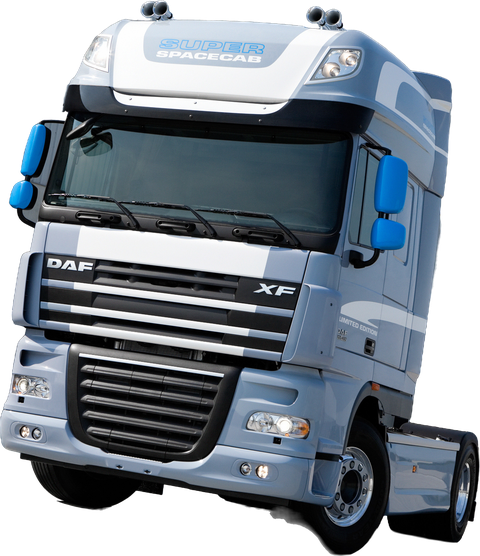
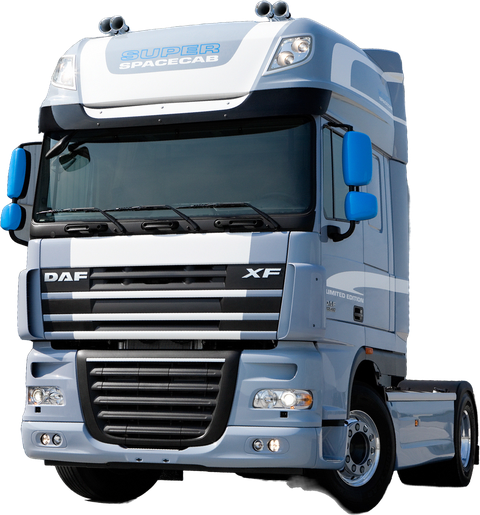
Kamióny: všetky dlaždice kategórie s ťahačom predkom doľava (MAN TGX 1. gen., Volvo FH13, DAF podľa generácií)
- MAN TGX 2007–2020: oficiálna fotka MAN 688407 bez loga DSV; Volvo FH13: oficiálna fotka bez návesu; DAF XF106 2017–2021 nový render DAF 2017, XF106 2013–2016 vlastný kľúč, XF105 narovnaný; staršia Scania R bez polepu.
- stranky.json (20 stránok s ťahačom), kategória SK aj CZ prebudovaná; build-kamiony-stranky.mjs --check OK.

diff --git a/admin-html/kamiony/kategoria-autokoberce-do-kamionu.sk.html b/admin-html/kamiony/kategoria-autokoberce-do-kamionu.sk.html
@@ -31,14 +31,14 @@
 <nav class="lcd-kam-zoznam__znacky" aria-label="Značky kamiónov"><a href="#kamiony-daf">DAF</a><a href="#kamiony-man">MAN</a><a href="#kamiony-mercedes-benz">Mercedes-Benz</a><a href="#kamiony-renault">Renault</a><a href="#kamiony-scania">Scania</a><a href="#kamiony-volvo">Volvo</a></nav>
 <div class="lcd-kam-zoznam__znacka" id="kamiony-daf"><h2>DAF</h2>
 <ul class="lcd-kam-zoznam__modely">
-<li><a class="lcd-kam-zoznam__k" href="/autokoberce-do-kamionu-daf-xf106/"><span class="lcd-kam-zoznam__foto"><picture><source type="image/webp" srcset="https://cdn.myshoptet.com/usr/shoptet.jankucera.work/user/documents/eshopy/luxuryCar/assets/img/1v/kamion-stranky/tahace/daf-xf106-vlavo-480.webp 480w, https://cdn.myshoptet.com/usr/shoptet.jankucera.work/user/documents/eshopy/luxuryCar/assets/img/1v/kamion-stranky/tahace/daf-xf106-vlavo-960.webp 960w" sizes="(min-width: 1000px) 230px, (min-width: 640px) 30vw, 45vw"><img src="https://cdn.myshoptet.com/usr/shoptet.jankucera.work/user/documents/eshopy/luxuryCar/assets/img/1v/kamion-stranky/tahace/daf-xf106-vlavo-480.png" alt="" width="480" height="555" loading="lazy" decoding="async"></picture></span><b>DAF XF106</b> <span class="lcd-kam-zoznam__roky">(2017–2021)</span></a></li>
-<li><a class="lcd-kam-zoznam__k" href="/autokoberce-do-kamionu-daf-xf106-2013/"><span class="lcd-kam-zoznam__foto"><picture><source type="image/webp" srcset="https://cdn.myshoptet.com/usr/shoptet.jankucera.work/user/documents/eshopy/luxuryCar/assets/img/1v/kamion-stranky/tahace/daf-xf106-vlavo-480.webp 480w, https://cdn.myshoptet.com/usr/shoptet.jankucera.work/user/documents/eshopy/luxuryCar/assets/img/1v/kamion-stranky/tahace/daf-xf106-vlavo-960.webp 960w" sizes="(min-width: 1000px) 230px, (min-width: 640px) 30vw, 45vw"><img src="https://cdn.myshoptet.com/usr/shoptet.jankucera.work/user/documents/eshopy/luxuryCar/assets/img/1v/kamion-stranky/tahace/daf-xf106-vlavo-480.png" alt="" width="480" height="555" loading="lazy" decoding="async"></picture></span><b>DAF XF106</b> <span class="lcd-kam-zoznam__roky">(2013–2016)</span></a></li>
-<li><a class="lcd-kam-zoznam__k" href="/autokoberce-do-kamionu-daf-xf105/"><span class="lcd-kam-zoznam__foto"><picture><source type="image/webp" srcset="https://cdn.myshoptet.com/usr/shoptet.jankucera.work/user/documents/eshopy/luxuryCar/assets/img/1v/kamion-stranky/tahace/daf-xf105-vlavo-480.webp 480w, https://cdn.myshoptet.com/usr/shoptet.jankucera.work/user/documents/eshopy/luxuryCar/assets/img/1v/kamion-stranky/tahace/daf-xf105-vlavo-960.webp 960w" sizes="(min-width: 1000px) 230px, (min-width: 640px) 30vw, 45vw"><img src="https://cdn.myshoptet.com/usr/shoptet.jankucera.work/user/documents/eshopy/luxuryCar/assets/img/1v/kamion-stranky/tahace/daf-xf105-vlavo-480.png" alt="" width="480" height="556" loading="lazy" decoding="async"></picture></span><b>DAF XF105</b> <span class="lcd-kam-zoznam__roky">(2006–2012)</span></a></li>
+<li><a class="lcd-kam-zoznam__k" href="/autokoberce-do-kamionu-daf-xf106/"><span class="lcd-kam-zoznam__foto"><picture><source type="image/webp" srcset="https://cdn.myshoptet.com/usr/shoptet.jankucera.work/user/documents/eshopy/luxuryCar/assets/img/1v/kamion-stranky/tahace/daf-xf106-vlavo-480.webp 480w, https://cdn.myshoptet.com/usr/shoptet.jankucera.work/user/documents/eshopy/luxuryCar/assets/img/1v/kamion-stranky/tahace/daf-xf106-vlavo-960.webp 960w" sizes="(min-width: 1000px) 230px, (min-width: 640px) 30vw, 45vw"><img src="https://cdn.myshoptet.com/usr/shoptet.jankucera.work/user/documents/eshopy/luxuryCar/assets/img/1v/kamion-stranky/tahace/daf-xf106-vlavo-480.png" alt="" width="480" height="412" loading="lazy" decoding="async"></picture></span><b>DAF XF106</b> <span class="lcd-kam-zoznam__roky">(2017–2021)</span></a></li>
+<li><a class="lcd-kam-zoznam__k" href="/autokoberce-do-kamionu-daf-xf106-2013/"><span class="lcd-kam-zoznam__foto"><picture><source type="image/webp" srcset="https://cdn.myshoptet.com/usr/shoptet.jankucera.work/user/documents/eshopy/luxuryCar/assets/img/1v/kamion-stranky/tahace/daf-xf106-2013-vlavo-480.webp 480w, https://cdn.myshoptet.com/usr/shoptet.jankucera.work/user/documents/eshopy/luxuryCar/assets/img/1v/kamion-stranky/tahace/daf-xf106-2013-vlavo-960.webp 960w" sizes="(min-width: 1000px) 230px, (min-width: 640px) 30vw, 45vw"><img src="https://cdn.myshoptet.com/usr/shoptet.jankucera.work/user/documents/eshopy/luxuryCar/assets/img/1v/kamion-stranky/tahace/daf-xf106-2013-vlavo-480.png" alt="" width="480" height="555" loading="lazy" decoding="async"></picture></span><b>DAF XF106</b> <span class="lcd-kam-zoznam__roky">(2013–2016)</span></a></li>
+<li><a class="lcd-kam-zoznam__k" href="/autokoberce-do-kamionu-daf-xf105/"><span class="lcd-kam-zoznam__foto"><picture><source type="image/webp" srcset="https://cdn.myshoptet.com/usr/shoptet.jankucera.work/user/documents/eshopy/luxuryCar/assets/img/1v/kamion-stranky/tahace/daf-xf105-vlavo-480.webp 480w, https://cdn.myshoptet.com/usr/shoptet.jankucera.work/user/documents/eshopy/luxuryCar/assets/img/1v/kamion-stranky/tahace/daf-xf105-vlavo-960.webp 960w" sizes="(min-width: 1000px) 230px, (min-width: 640px) 30vw, 45vw"><img src="https://cdn.myshoptet.com/usr/shoptet.jankucera.work/user/documents/eshopy/luxuryCar/assets/img/1v/kamion-stranky/tahace/daf-xf105-vlavo-480.png" alt="" width="480" height="515" loading="lazy" decoding="async"></picture></span><b>DAF XF105</b> <span class="lcd-kam-zoznam__roky">(2006–2012)</span></a></li>
 </ul></div>
 <div class="lcd-kam-zoznam__znacka" id="kamiony-man"><h2>MAN</h2>
 <ul class="lcd-kam-zoznam__modely">
 <li><a class="lcd-kam-zoznam__k" href="/autokoberce-do-kamionu-man-tgx/"><span class="lcd-kam-zoznam__foto"><picture><source type="image/webp" srcset="https://cdn.myshoptet.com/usr/shoptet.jankucera.work/user/documents/eshopy/luxuryCar/assets/img/1v/kamion-stranky/tahace/man-tgx-2021-vlavo-480.webp 480w, https://cdn.myshoptet.com/usr/shoptet.jankucera.work/user/documents/eshopy/luxuryCar/assets/img/1v/kamion-stranky/tahace/man-tgx-2021-vlavo-960.webp 960w" sizes="(min-width: 1000px) 230px, (min-width: 640px) 30vw, 45vw"><img src="https://cdn.myshoptet.com/usr/shoptet.jankucera.work/user/documents/eshopy/luxuryCar/assets/img/1v/kamion-stranky/tahace/man-tgx-2021-vlavo-480.png" alt="" width="480" height="440" loading="lazy" decoding="async"></picture></span><b>MAN TGX</b> <span class="lcd-kam-zoznam__roky">(2021–2026)</span></a></li>
-<li><a class="lcd-kam-zoznam__k" href="/autokoberce-do-kamionu-man-tgx-2007/"><span class="lcd-kam-zoznam__foto lcd-kam-zoznam__foto--bez"><svg viewBox="0 0 64 40" width="64" height="40" fill="none" stroke="currentColor" stroke-width="2.4" stroke-linejoin="round" aria-hidden="true"><path d="M6 6h22v24H6z"/><path d="M28 14h14l9 9v7H28z"/><path d="M33 17h7l6 6H33z"/><circle cx="15" cy="32" r="4" fill="#fff"/><circle cx="43" cy="32" r="4" fill="#fff"/></svg></span><b>MAN TGX</b> <span class="lcd-kam-zoznam__roky">(2007–2017)</span></a></li>
+<li><a class="lcd-kam-zoznam__k" href="/autokoberce-do-kamionu-man-tgx-2007/"><span class="lcd-kam-zoznam__foto"><picture><source type="image/webp" srcset="https://cdn.myshoptet.com/usr/shoptet.jankucera.work/user/documents/eshopy/luxuryCar/assets/img/1v/kamion-stranky/tahace/man-tgx-2007-vlavo-480.webp 480w, https://cdn.myshoptet.com/usr/shoptet.jankucera.work/user/documents/eshopy/luxuryCar/assets/img/1v/kamion-stranky/tahace/man-tgx-2007-vlavo-960.webp 960w" sizes="(min-width: 1000px) 230px, (min-width: 640px) 30vw, 45vw"><img src="https://cdn.myshoptet.com/usr/shoptet.jankucera.work/user/documents/eshopy/luxuryCar/assets/img/1v/kamion-stranky/tahace/man-tgx-2007-vlavo-480.png" alt="" width="480" height="509" loading="lazy" decoding="async"></picture></span><b>MAN TGX</b> <span class="lcd-kam-zoznam__roky">(2007–2017)</span></a></li>
 </ul></div>
 <div class="lcd-kam-zoznam__znacka" id="kamiony-mercedes-benz"><h2>Mercedes-Benz</h2>
 <ul class="lcd-kam-zoznam__modely">
@@ -63,7 +63,7 @@
 <div class="lcd-kam-zoznam__znacka" id="kamiony-volvo"><h2>Volvo</h2>
 <ul class="lcd-kam-zoznam__modely">
 <li><a class="lcd-kam-zoznam__k" href="/autokoberce-do-kamionu-volvo-fh4/"><span class="lcd-kam-zoznam__foto"><picture><source type="image/webp" srcset="https://cdn.myshoptet.com/usr/shoptet.jankucera.work/user/documents/eshopy/luxuryCar/assets/img/1v/kamion-stranky/tahace/volvo-fh4-vlavo-480.webp 480w, https://cdn.myshoptet.com/usr/shoptet.jankucera.work/user/documents/eshopy/luxuryCar/assets/img/1v/kamion-stranky/tahace/volvo-fh4-vlavo-960.webp 960w" sizes="(min-width: 1000px) 230px, (min-width: 640px) 30vw, 45vw"><img src="https://cdn.myshoptet.com/usr/shoptet.jankucera.work/user/documents/eshopy/luxuryCar/assets/img/1v/kamion-stranky/tahace/volvo-fh4-vlavo-480.png" alt="" width="480" height="497" loading="lazy" decoding="async"></picture></span><b>Volvo FH4</b> <span class="lcd-kam-zoznam__roky">(2013–2021)</span></a></li>
-<li><a class="lcd-kam-zoznam__k" href="/autokoberce-do-kamionu-volvo-fh13/"><span class="lcd-kam-zoznam__foto lcd-kam-zoznam__foto--bez"><svg viewBox="0 0 64 40" width="64" height="40" fill="none" stroke="currentColor" stroke-width="2.4" stroke-linejoin="round" aria-hidden="true"><path d="M6 6h22v24H6z"/><path d="M28 14h14l9 9v7H28z"/><path d="M33 17h7l6 6H33z"/><circle cx="15" cy="32" r="4" fill="#fff"/><circle cx="43" cy="32" r="4" fill="#fff"/></svg></span><b>Volvo FH13</b> <span class="lcd-kam-zoznam__roky">(2009–2013)</span></a></li>
+<li><a class="lcd-kam-zoznam__k" href="/autokoberce-do-kamionu-volvo-fh13/"><span class="lcd-kam-zoznam__foto"><picture><source type="image/webp" srcset="https://cdn.myshoptet.com/usr/shoptet.jankucera.work/user/documents/eshopy/luxuryCar/assets/img/1v/kamion-stranky/tahace/volvo-fh-2009-vlavo-480.webp 480w, https://cdn.myshoptet.com/usr/shoptet.jankucera.work/user/documents/eshopy/luxuryCar/assets/img/1v/kamion-stranky/tahace/volvo-fh-2009-vlavo-960.webp 960w" sizes="(min-width: 1000px) 230px, (min-width: 640px) 30vw, 45vw"><img src="https://cdn.myshoptet.com/usr/shoptet.jankucera.work/user/documents/eshopy/luxuryCar/assets/img/1v/kamion-stranky/tahace/volvo-fh-2009-vlavo-480.png" alt="" width="480" height="440" loading="lazy" decoding="async"></picture></span><b>Volvo FH13</b> <span class="lcd-kam-zoznam__roky">(2009–2013)</span></a></li>
 </ul></div>
 <div class="lcd-kam-zoznam__nenasli"><p><b>Nenašli ste svoj kamión?</b> Nevadí, nájdete ho tu.</p><a class="lcd-kam-zoznam__tl" href="/luxusne-autokoberce-kamiony/">Nájsť môj kamión</a></div>
 </div>

diff --git a/admin-html/kamiony/kategoria-autokoberce-do-kamionu.cz.html b/admin-html/kamiony/kategoria-autokoberce-do-kamionu.cz.html
@@ -31,14 +31,14 @@
 <nav class="lcd-kam-zoznam__znacky" aria-label="Značky kamionů"><a href="#kamiony-daf">DAF</a><a href="#kamiony-man">MAN</a><a href="#kamiony-mercedes-benz">Mercedes-Benz</a><a href="#kamiony-renault">Renault</a><a href="#kamiony-scania">Scania</a><a href="#kamiony-volvo">Volvo</a></nav>
 <div class="lcd-kam-zoznam__znacka" id="kamiony-daf"><h2>DAF</h2>
 <ul class="lcd-kam-zoznam__modely">
-<li><a class="lcd-kam-zoznam__k" href="/autokoberce-do-kamionu-daf-xf106/"><span class="lcd-kam-zoznam__foto"><picture><source type="image/webp" srcset="https://cdn.myshoptet.com/usr/shoptet.jankucera.work/user/documents/eshopy/luxuryCar/assets/img/1v/kamion-stranky/tahace/daf-xf106-vlavo-480.webp 480w, https://cdn.myshoptet.com/usr/shoptet.jankucera.work/user/documents/eshopy/luxuryCar/assets/img/1v/kamion-stranky/tahace/daf-xf106-vlavo-960.webp 960w" sizes="(min-width: 1000px) 230px, (min-width: 640px) 30vw, 45vw"><img src="https://cdn.myshoptet.com/usr/shoptet.jankucera.work/user/documents/eshopy/luxuryCar/assets/img/1v/kamion-stranky/tahace/daf-xf106-vlavo-480.png" alt="" width="480" height="555" loading="lazy" decoding="async"></picture></span><b>DAF XF106</b> <span class="lcd-kam-zoznam__roky">(2017–2021)</span></a></li>
-<li><a class="lcd-kam-zoznam__k" href="/autokoberce-do-kamionu-daf-xf106-2013/"><span class="lcd-kam-zoznam__foto"><picture><source type="image/webp" srcset="https://cdn.myshoptet.com/usr/shoptet.jankucera.work/user/documents/eshopy/luxuryCar/assets/img/1v/kamion-stranky/tahace/daf-xf106-vlavo-480.webp 480w, https://cdn.myshoptet.com/usr/shoptet.jankucera.work/user/documents/eshopy/luxuryCar/assets/img/1v/kamion-stranky/tahace/daf-xf106-vlavo-960.webp 960w" sizes="(min-width: 1000px) 230px, (min-width: 640px) 30vw, 45vw"><img src="https://cdn.myshoptet.com/usr/shoptet.jankucera.work/user/documents/eshopy/luxuryCar/assets/img/1v/kamion-stranky/tahace/daf-xf106-vlavo-480.png" alt="" width="480" height="555" loading="lazy" decoding="async"></picture></span><b>DAF XF106</b> <span class="lcd-kam-zoznam__roky">(2013–2016)</span></a></li>
-<li><a class="lcd-kam-zoznam__k" href="/autokoberce-do-kamionu-daf-xf105/"><span class="lcd-kam-zoznam__foto"><picture><source type="image/webp" srcset="https://cdn.myshoptet.com/usr/shoptet.jankucera.work/user/documents/eshopy/luxuryCar/assets/img/1v/kamion-stranky/tahace/daf-xf105-vlavo-480.webp 480w, https://cdn.myshoptet.com/usr/shoptet.jankucera.work/user/documents/eshopy/luxuryCar/assets/img/1v/kamion-stranky/tahace/daf-xf105-vlavo-960.webp 960w" sizes="(min-width: 1000px) 230px, (min-width: 640px) 30vw, 45vw"><img src="https://cdn.myshoptet.com/usr/shoptet.jankucera.work/user/documents/eshopy/luxuryCar/assets/img/1v/kamion-stranky/tahace/daf-xf105-vlavo-480.png" alt="" width="480" height="556" loading="lazy" decoding="async"></picture></span><b>DAF XF105</b> <span class="lcd-kam-zoznam__roky">(2006–2012)</span></a></li>
+<li><a class="lcd-kam-zoznam__k" href="/autokoberce-do-kamionu-daf-xf106/"><span class="lcd-kam-zoznam__foto"><picture><source type="image/webp" srcset="https://cdn.myshoptet.com/usr/shoptet.jankucera.work/user/documents/eshopy/luxuryCar/assets/img/1v/kamion-stranky/tahace/daf-xf106-vlavo-480.webp 480w, https://cdn.myshoptet.com/usr/shoptet.jankucera.work/user/documents/eshopy/luxuryCar/assets/img/1v/kamion-stranky/tahace/daf-xf106-vlavo-960.webp 960w" sizes="(min-width: 1000px) 230px, (min-width: 640px) 30vw, 45vw"><img src="https://cdn.myshoptet.com/usr/shoptet.jankucera.work/user/documents/eshopy/luxuryCar/assets/img/1v/kamion-stranky/tahace/daf-xf106-vlavo-480.png" alt="" width="480" height="412" loading="lazy" decoding="async"></picture></span><b>DAF XF106</b> <span class="lcd-kam-zoznam__roky">(2017–2021)</span></a></li>
+<li><a class="lcd-kam-zoznam__k" href="/autokoberce-do-kamionu-daf-xf106-2013/"><span class="lcd-kam-zoznam__foto"><picture><source type="image/webp" srcset="https://cdn.myshoptet.com/usr/shoptet.jankucera.work/user/documents/eshopy/luxuryCar/assets/img/1v/kamion-stranky/tahace/daf-xf106-2013-vlavo-480.webp 480w, https://cdn.myshoptet.com/usr/shoptet.jankucera.work/user/documents/eshopy/luxuryCar/assets/img/1v/kamion-stranky/tahace/daf-xf106-2013-vlavo-960.webp 960w" sizes="(min-width: 1000px) 230px, (min-width: 640px) 30vw, 45vw"><img src="https://cdn.myshoptet.com/usr/shoptet.jankucera.work/user/documents/eshopy/luxuryCar/assets/img/1v/kamion-stranky/tahace/daf-xf106-2013-vlavo-480.png" alt="" width="480" height="555" loading="lazy" decoding="async"></picture></span><b>DAF XF106</b> <span class="lcd-kam-zoznam__roky">(2013–2016)</span></a></li>
+<li><a class="lcd-kam-zoznam__k" href="/autokoberce-do-kamionu-daf-xf105/"><span class="lcd-kam-zoznam__foto"><picture><source type="image/webp" srcset="https://cdn.myshoptet.com/usr/shoptet.jankucera.work/user/documents/eshopy/luxuryCar/assets/img/1v/kamion-stranky/tahace/daf-xf105-vlavo-480.webp 480w, https://cdn.myshoptet.com/usr/shoptet.jankucera.work/user/documents/eshopy/luxuryCar/assets/img/1v/kamion-stranky/tahace/daf-xf105-vlavo-960.webp 960w" sizes="(min-width: 1000px) 230px, (min-width: 640px) 30vw, 45vw"><img src="https://cdn.myshoptet.com/usr/shoptet.jankucera.work/user/documents/eshopy/luxuryCar/assets/img/1v/kamion-stranky/tahace/daf-xf105-vlavo-480.png" alt="" width="480" height="515" loading="lazy" decoding="async"></picture></span><b>DAF XF105</b> <span class="lcd-kam-zoznam__roky">(2006–2012)</span></a></li>
 </ul></div>
 <div class="lcd-kam-zoznam__znacka" id="kamiony-man"><h2>MAN</h2>
 <ul class="lcd-kam-zoznam__modely">
 <li><a class="lcd-kam-zoznam__k" href="/autokoberce-do-kamionu-man-tgx/"><span class="lcd-kam-zoznam__foto"><picture><source type="image/webp" srcset="https://cdn.myshoptet.com/usr/shoptet.jankucera.work/user/documents/eshopy/luxuryCar/assets/img/1v/kamion-stranky/tahace/man-tgx-2021-vlavo-480.webp 480w, https://cdn.myshoptet.com/usr/shoptet.jankucera.work/user/documents/eshopy/luxuryCar/assets/img/1v/kamion-stranky/tahace/man-tgx-2021-vlavo-960.webp 960w" sizes="(min-width: 1000px) 230px, (min-width: 640px) 30vw, 45vw"><img src="https://cdn.myshoptet.com/usr/shoptet.jankucera.work/user/documents/eshopy/luxuryCar/assets/img/1v/kamion-stranky/tahace/man-tgx-2021-vlavo-480.png" alt="" width="480" height="440" loading="lazy" decoding="async"></picture></span><b>MAN TGX</b> <span class="lcd-kam-zoznam__roky">(2021–2026)</span></a></li>
-<li><a class="lcd-kam-zoznam__k" href="/autokoberce-do-kamionu-man-tgx-2007/"><span class="lcd-kam-zoznam__foto lcd-kam-zoznam__foto--bez"><svg viewBox="0 0 64 40" width="64" height="40" fill="none" stroke="currentColor" stroke-width="2.4" stroke-linejoin="round" aria-hidden="true"><path d="M6 6h22v24H6z"/><path d="M28 14h14l9 9v7H28z"/><path d="M33 17h7l6 6H33z"/><circle cx="15" cy="32" r="4" fill="#fff"/><circle cx="43" cy="32" r="4" fill="#fff"/></svg></span><b>MAN TGX</b> <span class="lcd-kam-zoznam__roky">(2007–2017)</span></a></li>
+<li><a class="lcd-kam-zoznam__k" href="/autokoberce-do-kamionu-man-tgx-2007/"><span class="lcd-kam-zoznam__foto"><picture><source type="image/webp" srcset="https://cdn.myshoptet.com/usr/shoptet.jankucera.work/user/documents/eshopy/luxuryCar/assets/img/1v/kamion-stranky/tahace/man-tgx-2007-vlavo-480.webp 480w, https://cdn.myshoptet.com/usr/shoptet.jankucera.work/user/documents/eshopy/luxuryCar/assets/img/1v/kamion-stranky/tahace/man-tgx-2007-vlavo-960.webp 960w" sizes="(min-width: 1000px) 230px, (min-width: 640px) 30vw, 45vw"><img src="https://cdn.myshoptet.com/usr/shoptet.jankucera.work/user/documents/eshopy/luxuryCar/assets/img/1v/kamion-stranky/tahace/man-tgx-2007-vlavo-480.png" alt="" width="480" height="509" loading="lazy" decoding="async"></picture></span><b>MAN TGX</b> <span class="lcd-kam-zoznam__roky">(2007–2017)</span></a></li>
 </ul></div>
 <div class="lcd-kam-zoznam__znacka" id="kamiony-mercedes-benz"><h2>Mercedes-Benz</h2>
 <ul class="lcd-kam-zoznam__modely">
@@ -63,7 +63,7 @@
 <div class="lcd-kam-zoznam__znacka" id="kamiony-volvo"><h2>Volvo</h2>
 <ul class="lcd-kam-zoznam__modely">
 <li><a class="lcd-kam-zoznam__k" href="/autokoberce-do-kamionu-volvo-fh4/"><span class="lcd-kam-zoznam__foto"><picture><source type="image/webp" srcset="https://cdn.myshoptet.com/usr/shoptet.jankucera.work/user/documents/eshopy/luxuryCar/assets/img/1v/kamion-stranky/tahace/volvo-fh4-vlavo-480.webp 480w, https://cdn.myshoptet.com/usr/shoptet.jankucera.work/user/documents/eshopy/luxuryCar/assets/img/1v/kamion-stranky/tahace/volvo-fh4-vlavo-960.webp 960w" sizes="(min-width: 1000px) 230px, (min-width: 640px) 30vw, 45vw"><img src="https://cdn.myshoptet.com/usr/shoptet.jankucera.work/user/documents/eshopy/luxuryCar/assets/img/1v/kamion-stranky/tahace/volvo-fh4-vlavo-480.png" alt="" width="480" height="497" loading="lazy" decoding="async"></picture></span><b>Volvo FH4</b> <span class="lcd-kam-zoznam__roky">(2013–2021)</span></a></li>
-<li><a class="lcd-kam-zoznam__k" href="/autokoberce-do-kamionu-volvo-fh13/"><span class="lcd-kam-zoznam__foto lcd-kam-zoznam__foto--bez"><svg viewBox="0 0 64 40" width="64" height="40" fill="none" stroke="currentColor" stroke-width="2.4" stroke-linejoin="round" aria-hidden="true"><path d="M6 6h22v24H6z"/><path d="M28 14h14l9 9v7H28z"/><path d="M33 17h7l6 6H33z"/><circle cx="15" cy="32" r="4" fill="#fff"/><circle cx="43" cy="32" r="4" fill="#fff"/></svg></span><b>Volvo FH13</b> <span class="lcd-kam-zoznam__roky">(2009–2013)</span></a></li>
+<li><a class="lcd-kam-zoznam__k" href="/autokoberce-do-kamionu-volvo-fh13/"><span class="lcd-kam-zoznam__foto"><picture><source type="image/webp" srcset="https://cdn.myshoptet.com/usr/shoptet.jankucera.work/user/documents/eshopy/luxuryCar/assets/img/1v/kamion-stranky/tahace/volvo-fh-2009-vlavo-480.webp 480w, https://cdn.myshoptet.com/usr/shoptet.jankucera.work/user/documents/eshopy/luxuryCar/assets/img/1v/kamion-stranky/tahace/volvo-fh-2009-vlavo-960.webp 960w" sizes="(min-width: 1000px) 230px, (min-width: 640px) 30vw, 45vw"><img src="https://cdn.myshoptet.com/usr/shoptet.jankucera.work/user/documents/eshopy/luxuryCar/assets/img/1v/kamion-stranky/tahace/volvo-fh-2009-vlavo-480.png" alt="" width="480" height="440" loading="lazy" decoding="async"></picture></span><b>Volvo FH13</b> <span class="lcd-kam-zoznam__roky">(2009–2013)</span></a></li>
 </ul></div>
 <div class="lcd-kam-zoznam__nenasli"><p><b>Nenašli jste svůj kamion?</b> Nevadí, najdete ho tady.</p><a class="lcd-kam-zoznam__tl" href="/luxusni-autokoberce-kamiony/">Najít můj kamion</a></div>
 </div>
